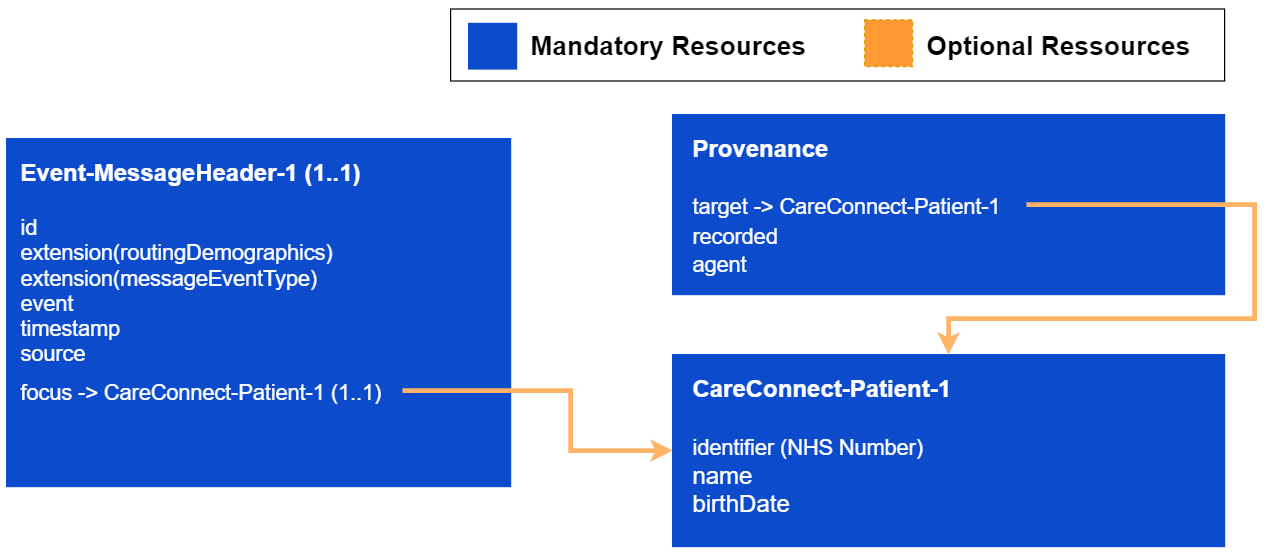
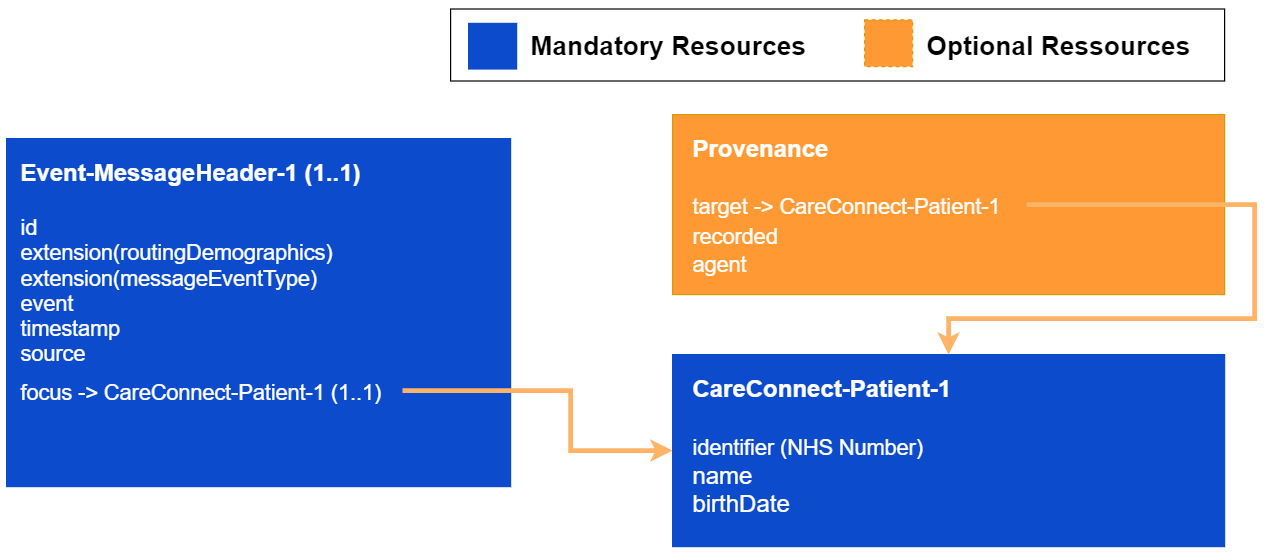
Updated cardinality of provanance resource in PDS Change Event

Changed region(s): [[0.5204, 0.1841, 0.9796, 0.5523]]

diff --git a/pages/messages/messages/pds_record_change.md b/pages/messages/messages/pds_record_change.md
@@ -85,9 +85,9 @@ The following table outlines the key elements which will be included, but additi
 
 ### [Provenance](https://www.hl7.org/fhir/stu3/provenance.html)
 
-The Provenance resource will be included to indicate who changed the PDS record which trigged the publish of this event message. The resource SHALL conform to the [Provenance](https://www.hl7.org/fhir/stu3/provenance.html) FHIR profile and the additional population guidance as per the table below:
+The Provenance resource will be included where appropriate to indicate who performed the change in PDS which trigged the publish of this event message. The resource SHALL conform to the [Provenance](https://www.hl7.org/fhir/stu3/provenance.html) FHIR profile and the additional population guidance as per the table below:
 
-| Resource Cardinality | 1..1 |
+| Resource Cardinality | 0..1 |
 
 The following table outlines the key elements which will be included, but additional elements and extensions may be included in the resource.
 
